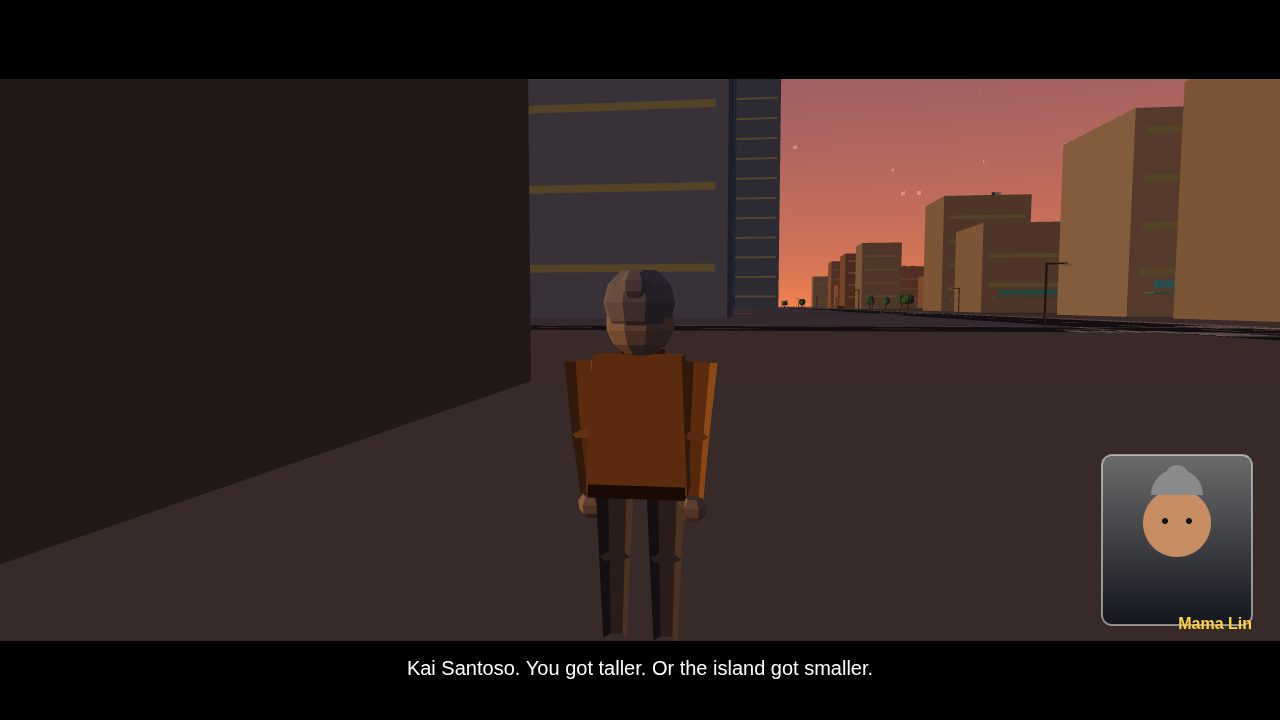
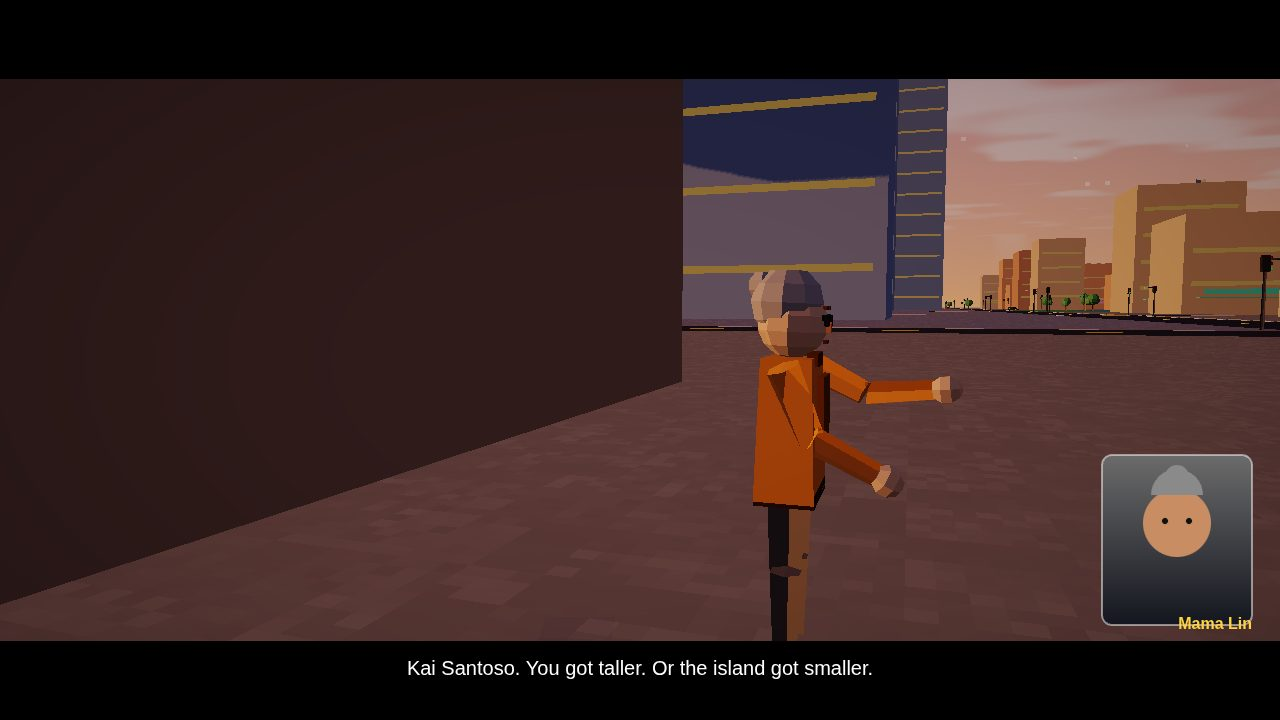
step 13: talk/hit/jump poses, cutscene facing, rule of thirds, key/rim lights

diff --git a/game/js/entities/character.js b/game/js/entities/character.js
@@ -186,9 +186,18 @@ export class CharacterSystem {
     b.count++;
   }
 
+  // Flinch: a 0.25 s hit reaction. Only the timer is stored — the rig
+  // reads it in rigCharacter, so the flinch shows even though the AI
+  // overwrites c.pose every frame.
+  flinch(c) {
+    if (!c || c.pose === 'dead') return;
+    c.hitT = 0.25;
+  }
+
   update(dt, time) {
     for (const b of Object.values(this.batches)) b.count = 0;
     for (const c of this.characters) {
+      if (c.hitT > 0) c.hitT -= dt;
       this.rigCharacter(c, dt, time);
     }
     for (const [name, b] of Object.entries(this.batches)) {
@@ -229,27 +238,48 @@ export class CharacterSystem {
       return mat4Multiply(parent, m);
     };
 
-    // Torso (slight lean when running, twist when aiming).
+    // A hit flinch overrides the upper body for 0.25 s, whatever the
+    // pose field says (the AI rewrites it every frame).
+    const flinching = (c.hitT ?? 0) > 0;
+    const fl = flinching ? Math.max(0, c.hitT / 0.25) : 0;
+
+    // Torso (slight lean when running, twist when aiming, back on a hit).
     const torsoTwist = c.pose === 'aim' ? -0.25 : 0;
-    const torsoLean = running ? 0.12 : 0;
+    const torsoLean = flinching ? -0.2 * fl : running ? 0.12 : 0;
     this.put('torso', local(JOINTS.torso, torsoLean, torsoTwist), o.jacket);
 
-    // Head: looks where the character aims, or along the heading.
+    // Head: looks where the character aims, or along the heading; nods
+    // while talking, snaps back on a hit.
     const headRy = c.pose === 'aim' ? c.aimHeading - c.heading : 0;
-    this.put('head', local(JOINTS.head, 0, headRy), o.skin);
+    const headRx = flinching ? -0.18 * fl
+      : c.pose === 'talk' ? Math.sin(time * 2.4 + c.phase) * 0.07 : 0;
+    this.put('head', local(JOINTS.head, headRx, headRy), o.skin);
     const hairBatch = 'hair-' + (o.hairStyle || 'short');
-    this.put(hairBatch, local(JOINTS.hair, 0, headRy), o.hair);
-    if (o.glasses) this.put('glasses', local(JOINTS.head, 0, headRy), [1, 1, 1]);
-    if (o.headphones) this.put('headphones', local(JOINTS.head, 0, headRy), [1, 1, 1]);
+    this.put(hairBatch, local(JOINTS.hair, headRx, headRy), o.hair);
+    if (o.glasses) this.put('glasses', local(JOINTS.head, headRx, headRy), [1, 1, 1]);
+    if (o.headphones) this.put('headphones', local(JOINTS.head, headRx, headRy), [1, 1, 1]);
 
     // Arms: shoulders hang from the torso; elbows hang from the shoulders.
     let armLx = 0, armRx = 0, armLz = 0, armRz = 0, elbowL = -0.25, elbowR = -0.25;
-    if (c.pose === 'aim') {
+    if (flinching) {
+      armRx = -0.7 * fl; armLx = -0.7 * fl;
+      armLz = 0.3 * fl; armRz = -0.3 * fl;
+      elbowL = -1.0 * fl; elbowR = -1.0 * fl;
+    } else if (c.pose === 'aim') {
       armRx = -1.35; armLx = -0.95; armLz = 0.35; elbowL = -0.5; elbowR = -0.08;
+    } else if (c.pose === 'talk') {
+      // Speaking gesture: the right hand moves while the left stays low.
+      const g = Math.sin(time * 3.2 + c.phase) * 0.3;
+      armRx = -0.85 + g; armLx = -0.35; armLz = 0.25; armRz = -0.15;
+      elbowR = -0.55; elbowL = -0.7;
     } else if (c.pose === 'punch') {
       const ext = Math.sin(Math.min(c.punchT, 1) * Math.PI);
       armRx = -1.5 * ext; elbowR = -0.05;
       armLx = -0.3; elbowL = -0.6;
+    } else if (c.pose === 'jump') {
+      // Arms out for balance while airborne.
+      armLx = -0.25; armRx = -0.25; armLz = 0.45; armRz = -0.45;
+      elbowL = -0.4; elbowR = -0.4;
     } else if (c.pose === 'drive' || c.pose === 'sit') {
       armRx = -1.05; armLx = -1.05; elbowL = -0.35; elbowR = -0.35;
     } else if (moving) {
@@ -273,6 +303,9 @@ export class CharacterSystem {
     let legLx = 0, legRx = 0, kneeL = 0, kneeR = 0;
     if (c.pose === 'drive' || c.pose === 'sit') {
       legLx = -1.35; legRx = -1.35; kneeL = 1.25; kneeR = 1.25;
+    } else if (c.pose === 'jump') {
+      // Tucked while airborne.
+      legLx = -0.7; legRx = -0.45; kneeL = 1.3; kneeR = 1.0;
     } else if (moving) {
       legLx = -swing; legRx = swing;
       kneeL = Math.max(0, Math.sin(c.phase + 0.6)) * 0.9;

diff --git a/game/js/story/cutscene.js b/game/js/story/cutscene.js
@@ -25,12 +25,21 @@ export class CutscenePlayer {
     this.lineT = 0;
     this.playing = true;
     this.onDone = onDone;
+    // Face the cast toward each other: a close-up only works when the
+    // speaker's face is toward the listener (and the camera beside them).
+    if (cast.a && cast.b) {
+      cast.a.heading = Math.atan2(cast.b.x - cast.a.x, cast.b.z - cast.a.z);
+      cast.b.heading = Math.atan2(cast.a.x - cast.b.x, cast.a.z - cast.b.z);
+    }
     this.updateCamera();
   }
 
   stop() {
     this.playing = false;
     this.lines = [];
+    // The cast stops talking the moment the scene ends.
+    if (this.cast.a) this.cast.a.pose = 'idle';
+    if (this.cast.b) this.cast.b.pose = 'idle';
     if (this.onDone) {
       const cb = this.onDone;
       this.onDone = null;
@@ -59,6 +68,15 @@ export class CutscenePlayer {
     return this.lines[this.index] ?? null;
   }
 
+  // The character speaking the current line (null for narration).
+  get speaker() {
+    const line = this.currentLine();
+    if (!line || !this.cast.a) return null;
+    if (line.s === 'kai') return this.cast.a;
+    if (line.s === 'narrator') return this.cast.a;
+    return this.cast.b ?? this.cast.a;
+  }
+
   // Camera for the current line, framed on the cast.
   updateCamera() {
     const line = this.currentLine();
@@ -72,6 +90,11 @@ export class CutscenePlayer {
     const subject = line.s === 'kai' ? a : (b ?? a);
     const other = subject === a ? b : a;
     const shot = !other || line.s === 'narrator' ? 'wide' : (line.s === 'kai' ? 'close-a' : 'close-b');
+    // Talk pose (Tier 2): the speaker gestures, the listener stands
+    // still. The narrator line leaves both idle.
+    const talking = line.s === 'kai' ? a : line.s === 'narrator' ? null : b;
+    if (a) a.pose = talking === a ? 'talk' : 'idle';
+    if (b) b.pose = talking === b ? 'talk' : 'idle';
     let pos, altPos, target, fov;
     // Narrator lines frame Kai alone, wherever he is; the two-shot is for
     // dialogue between two characters standing together.
@@ -97,6 +120,14 @@ export class CutscenePlayer {
       target = [c.x, 1.45, c.z];
       pos = [c.x + px * 3.5 + fx * 0.5, 1.7, c.z + pz * 3.5 + fz * 0.5];
       altPos = [c.x - px * 3.5 + fx * 0.5, 1.7, c.z - pz * 3.5 + fz * 0.5];
+      // Rule of thirds (Tier 2): shift the aim point sideways so the
+      // speaker's face sits on a third-line instead of dead centre.
+      // Kai and the other speaker take opposite thirds across the cut.
+      const fwdx = target[0] - pos[0], fwdz = target[2] - pos[2];
+      const fl = Math.hypot(fwdx, fwdz) || 1;
+      const rx = -fwdz / fl, rz = fwdx / fl;
+      const third = shot === 'close-a' ? 0.7 : -0.7;
+      target = [target[0] + rx * third, target[1], target[2] + rz * third];
       fov = 50;
     } else {
       // Wide on a single character (narrator): low and close, the

diff --git a/game/js/main.js b/game/js/main.js
@@ -255,8 +255,9 @@ function damageCharacter(c, dmg, shooter) {
       c.pose = 'dead';
       c.speed = 0;
       if (shooter === player) police.addWanted(2);
-    } else if (shooter === player) {
-      police.addWanted(1);
+    } else {
+      charSystem.flinch(c);
+      if (shooter === player) police.addWanted(1);
     }
     return;
   }
@@ -268,6 +269,7 @@ function damageCharacter(c, dmg, shooter) {
     peds.fleeFrom(c.x, c.z, 30);
     if (shooter === player) police.addWanted(1);
   } else {
+    charSystem.flinch(c);
     peds.fleeFrom(c.x, c.z, 20);
   }
 }
@@ -564,6 +566,18 @@ function frame(now) {
   }
   if (muzzleFlash && t - muzzleFlash.t < 0.12) {
     lightRegistry.addDynamic(muzzleFlash.x, muzzleFlash.y, muzzleFlash.z, 1, 0.85, 0.4, 1.2, 12);
+  }
+  // Cutscene lighting (Tier 2): a warm key from the camera side and a
+  // cool rim from behind the speaker, so faces read in the dark.
+  if (game.state === 'cutscene' && cutscene.camera) {
+    const sp = cutscene.speaker;
+    if (sp) {
+      const cam = cutscene.camera;
+      const dx = cam.pos[0] - sp.x, dz = cam.pos[2] - sp.z;
+      const dl = Math.hypot(dx, dz) || 1;
+      lightRegistry.addDynamic(sp.x + (dx / dl) * 3, 3.2, sp.z + (dz / dl) * 3, 1, 0.8, 0.55, 0.7, 10);
+      lightRegistry.addDynamic(sp.x - (dx / dl) * 3, 3.5, sp.z - (dz / dl) * 3, 0.4, 0.6, 1, 0.5, 8);
+    }
   }
   lightRegistry.update(player.x, player.y + 2, player.z, lightCap, palette.night);
   renderer.wet = rain.wet;

diff --git a/game/js/ai/combat-ai.js b/game/js/ai/combat-ai.js
@@ -80,10 +80,14 @@ export class CombatAI {
       member.c.deadT = 0;
       member.state = 'dead';
       if (this.onMemberDown) this.onMemberDown(member);
-    } else if (member.health < 20 && member.state !== 'retreat') {
-      member.state = 'retreat';
-      member.stateT = 2;
-      this.findCover(member);
+    } else {
+      // A hit staggers the enforcer for a beat (see character.js).
+      this.charSystem.flinch(member.c);
+      if (member.health < 20 && member.state !== 'retreat') {
+        member.state = 'retreat';
+        member.stateT = 2;
+        this.findCover(member);
+      }
     }
   }
 

diff --git a/game/js/entities/player.js b/game/js/entities/player.js
@@ -155,6 +155,9 @@ export class Player {
       this.dead = true;
       this.char.pose = 'dead';
       this.char.deadT = 0;
+    } else {
+      // Flinch: the rig shows it for 0.25 s (see character.js).
+      this.char.hitT = 0.25;
     }
   }
 
@@ -305,6 +308,7 @@ export class Player {
     // Pose.
     this.char.pose = this.punchT > 0 ? 'punch'
       : this.aiming ? 'aim'
+      : this.y > 0.05 ? 'jump'
       : this.speed > 4.2 ? 'run'
       : this.speed > 0.3 ? 'walk' : 'idle';
     this.char.aimHeading = this.camYaw;
